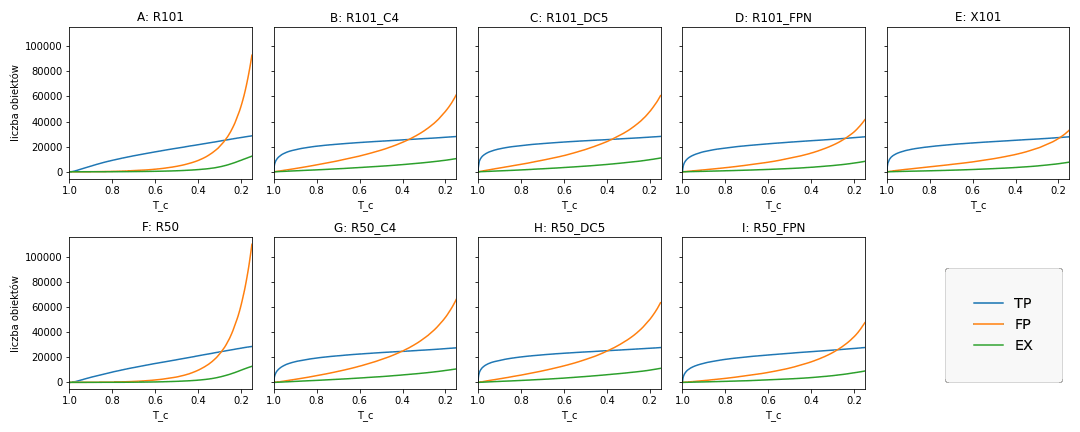
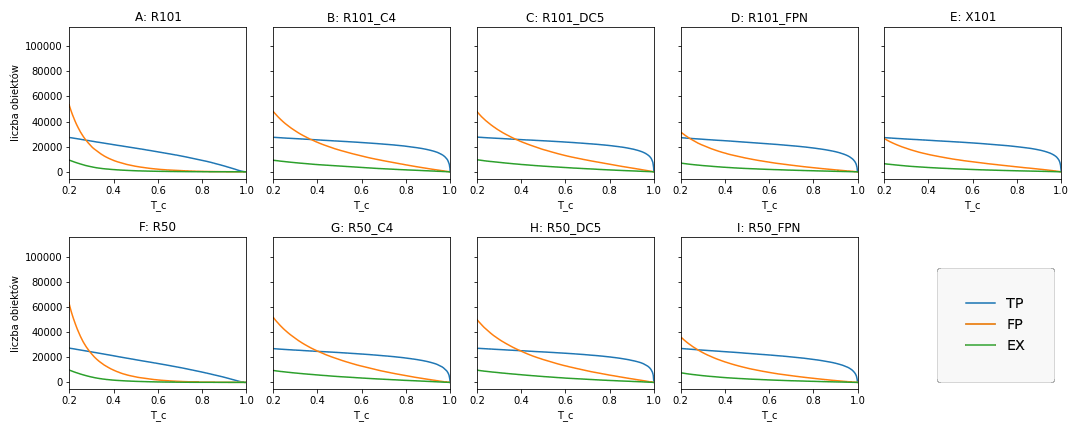
xlim for TP/FP/EX plot, plot updated to increasing x (T_c).

diff --git a/evaldets/postprocess.py b/evaldets/postprocess.py
@@ -168,7 +168,7 @@ class Summary:
             yield model, df
 
     def plot_tc_tp_fp_ex(
-        self, axes=None, *, stack=False, order=None, min_Tc=0.1, i18n=None, **kwargs
+        self, axes=None, *, stack=False, order=None, min_Tc=0.1, i18n=None, xlim=None, **kwargs
     ):
         """Plot"""
         if axes is not None:
@@ -180,6 +180,8 @@ class Summary:
         subplot_ord = ord("A")
         models = dict(self.tc_tp_fp_ex())
         yy = ["TP", "FP * (-1)", "TP+EX"] if stack else ["TP", "FP", "EX"]
+        if xlim is None:
+            xlim = (1, min_Tc)
 
         for model in order if order else models.keys():
             df = models[model]
@@ -198,7 +200,7 @@ class Summary:
             ax = df.plot(
                 x="T_c",
                 y=yy,
-                xlim=(1, min_Tc),
+                xlim=xlim,
                 ylabel=T_(i18n, "count"),
                 title=f"{chr(subplot_ord)}: {model}",
                 **kwargs,
